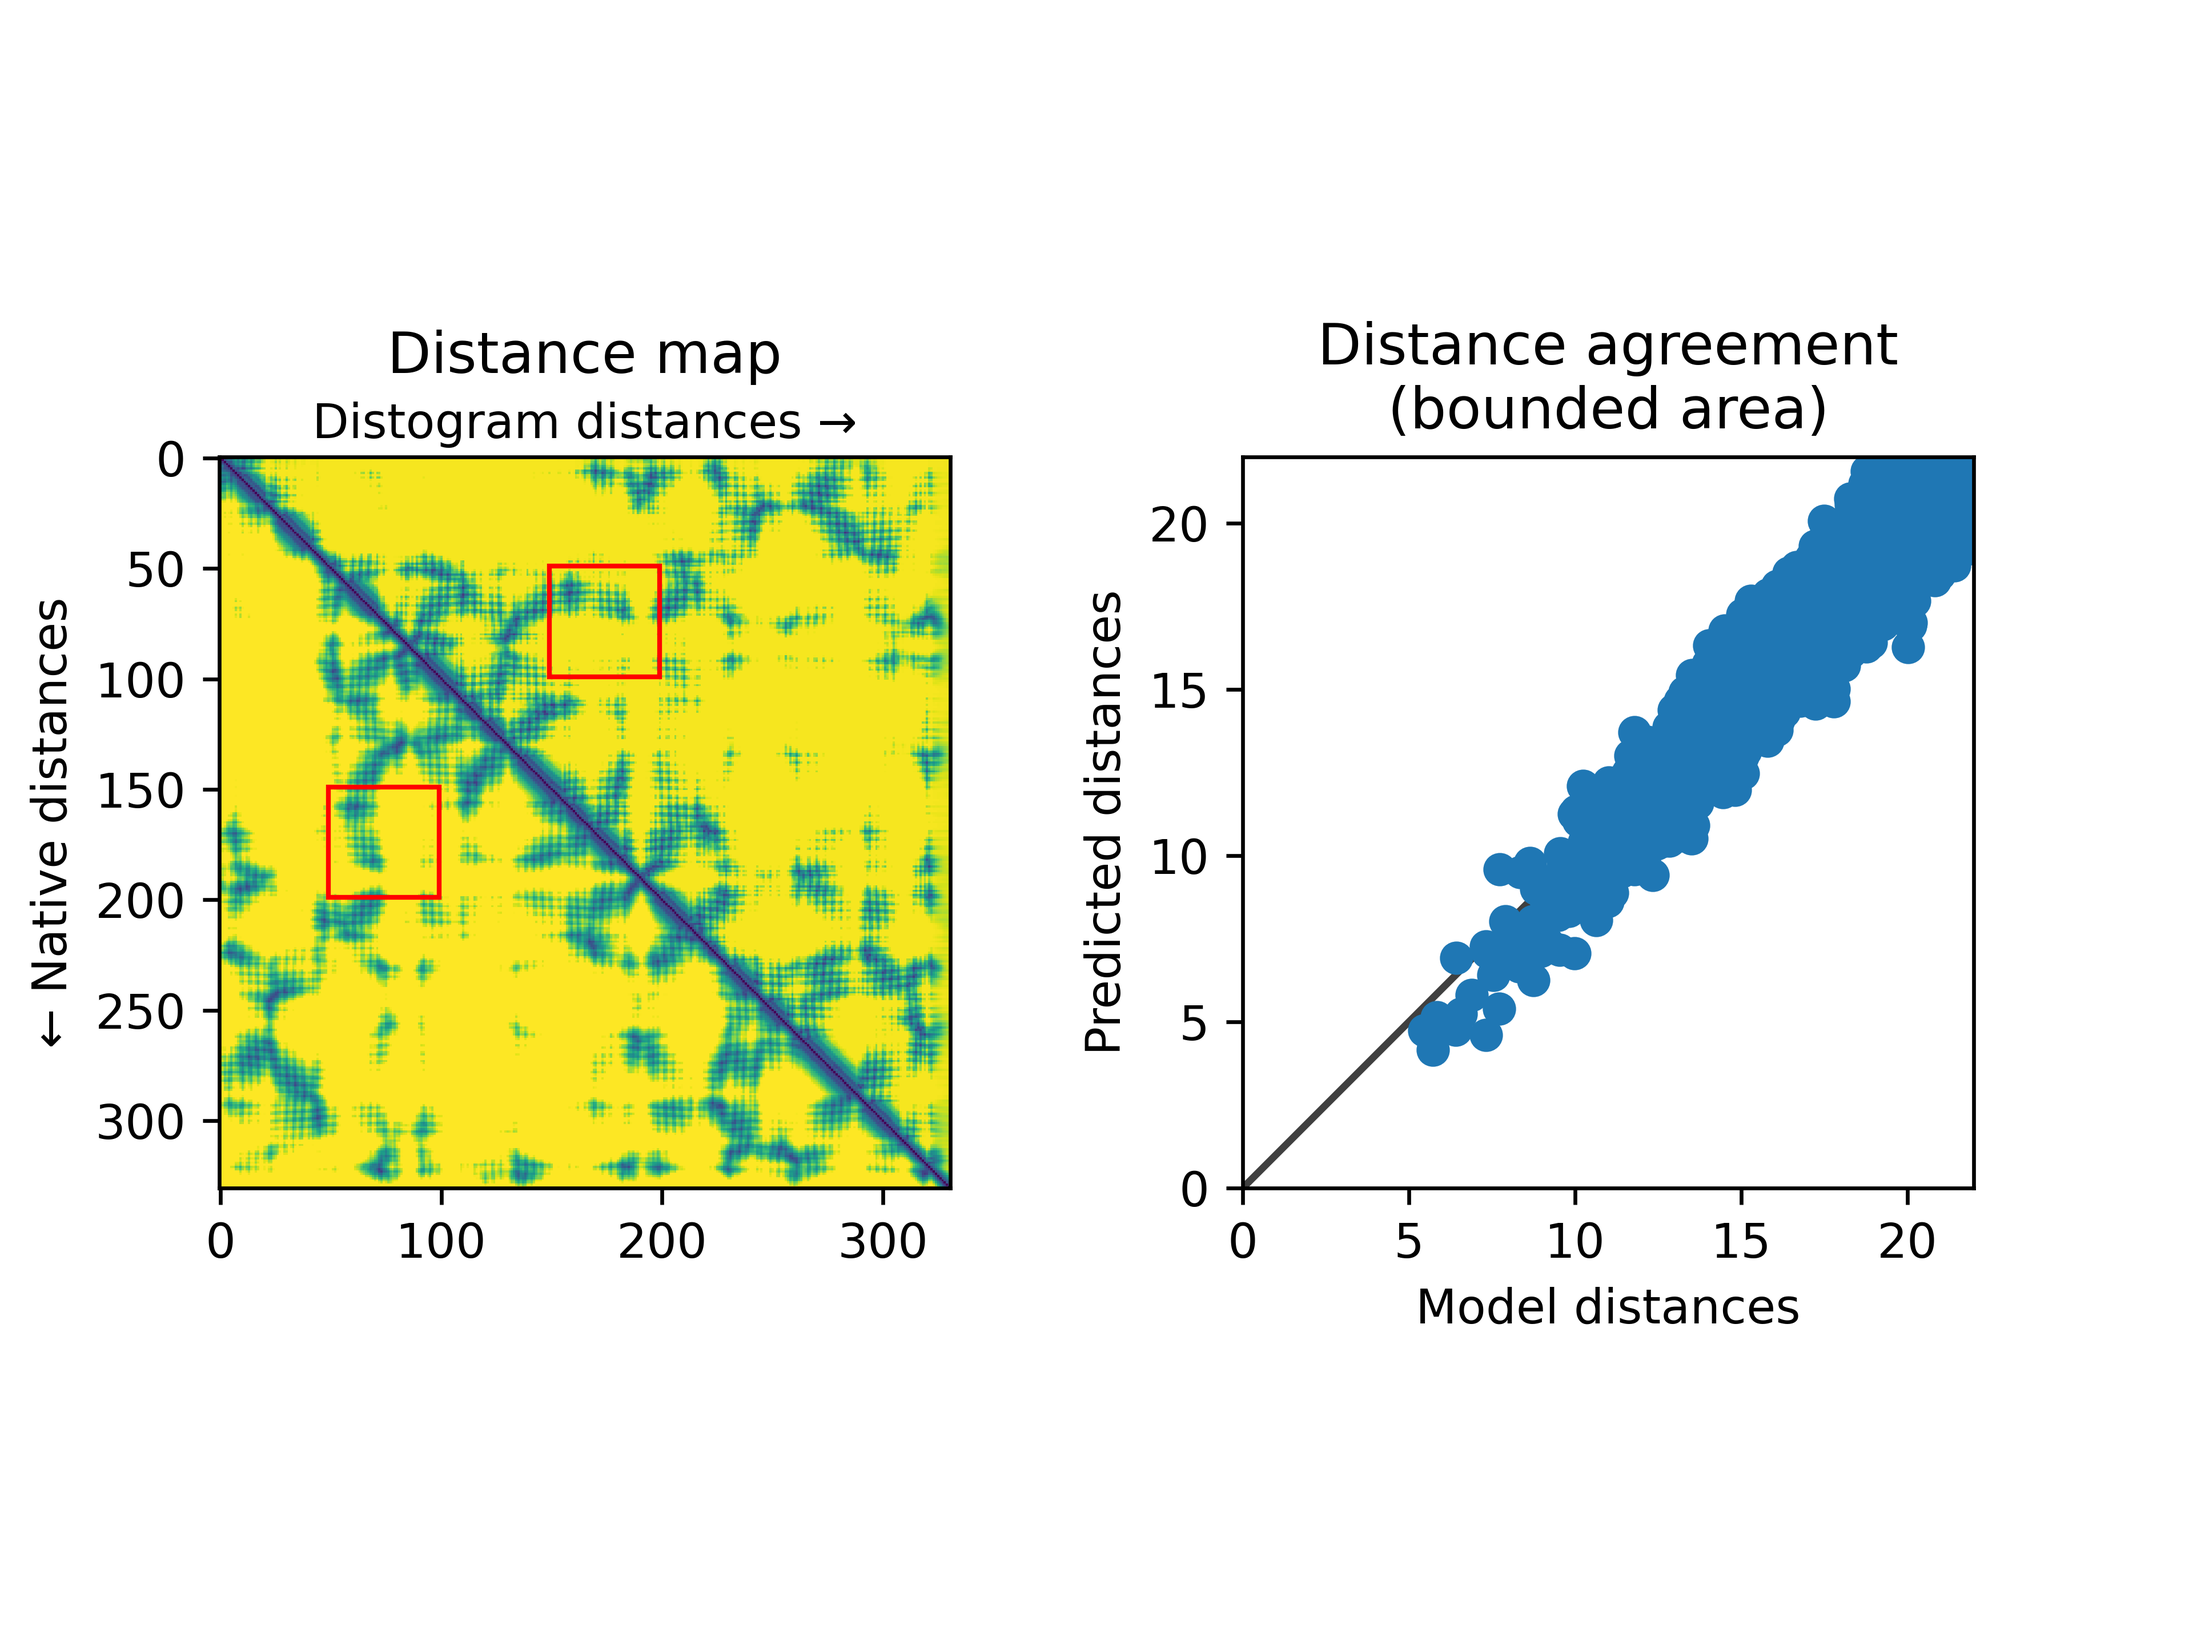
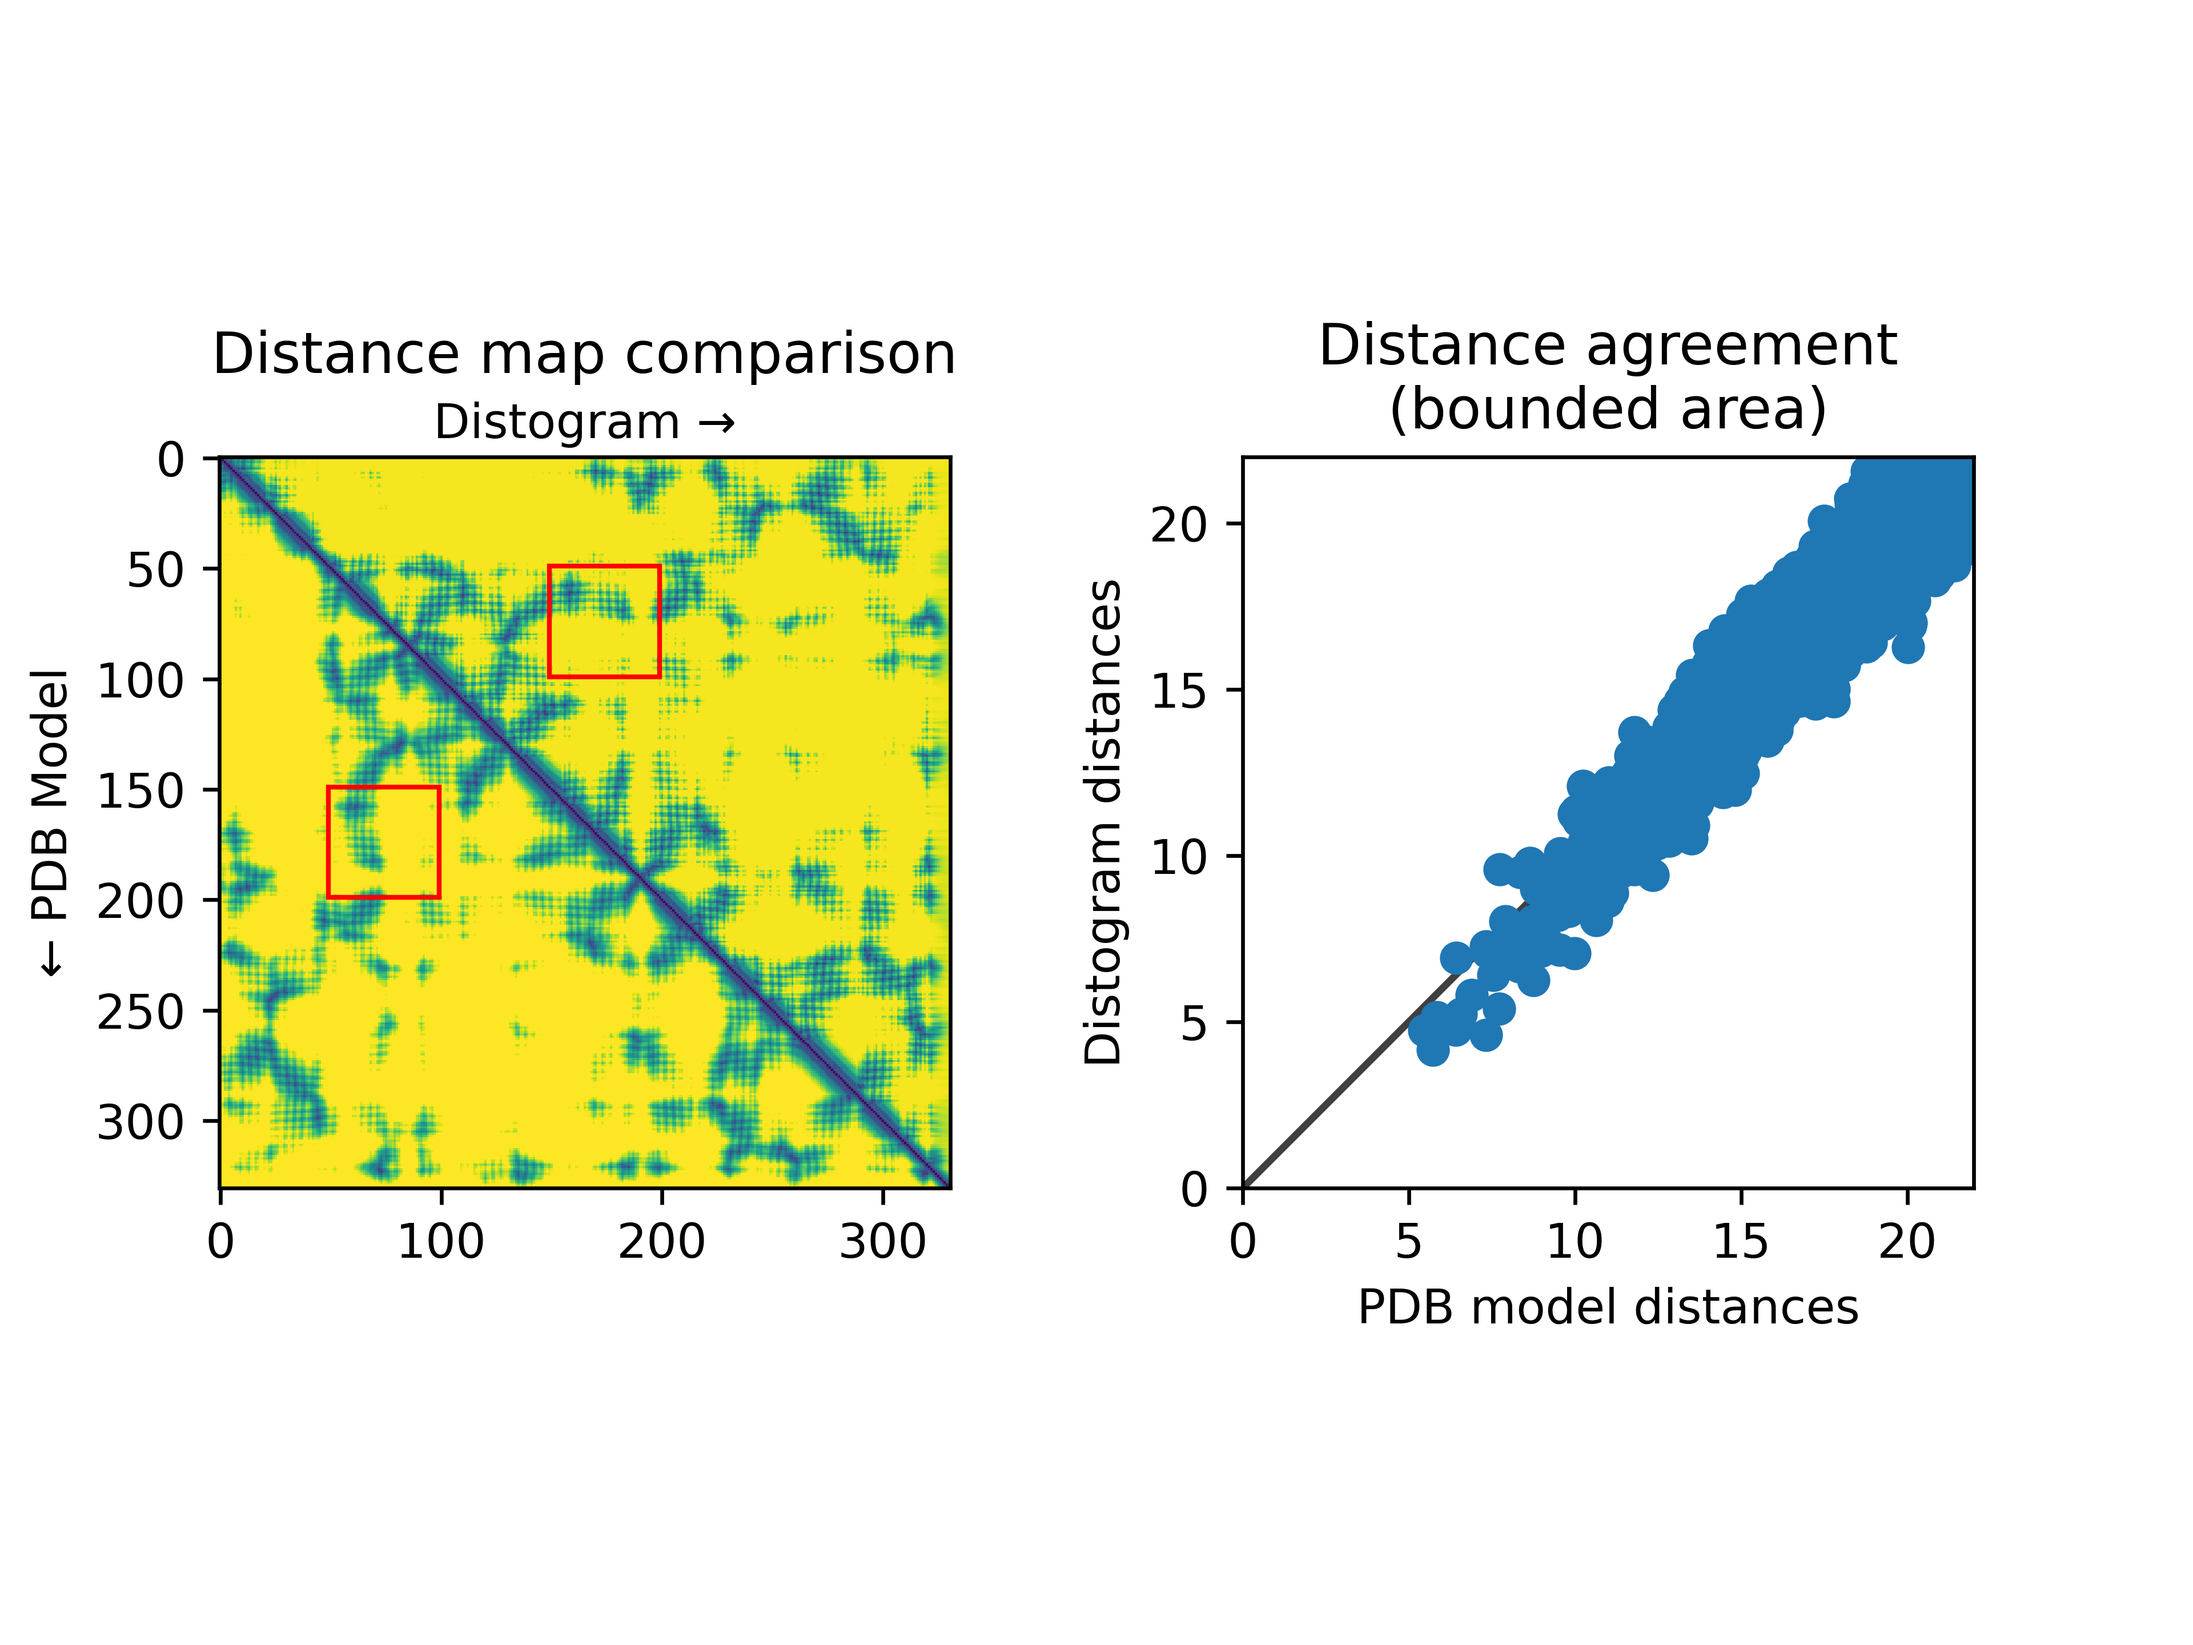
better labels

diff --git a/dgram2dmap.py b/dgram2dmap.py
@@ -208,8 +208,8 @@ def compare_to_native(
     )
 
     ax[0].imshow(compared_dist)
-    ax[0].set_ylabel("← Native distances")
-    ax[0].set_xlabel("Distogram distances →")
+    ax[0].set_ylabel("← PDB Model")
+    ax[0].set_xlabel("Distogram →")
     ax[0].xaxis.set_label_position("top")
 
     ax[1].set_xlim(0, 22)
@@ -221,8 +221,8 @@ def compare_to_native(
         np.max([ax[1].get_xlim(), ax[1].get_ylim()]),  # max of both axes
     ]
     ax[1].plot(lims, lims, "k-", alpha=0.75, zorder=0)
-    ax[1].set_xlabel("Model distances")
-    ax[1].set_ylabel("Predicted distances")
+    ax[1].set_xlabel("PDB model distances")
+    ax[1].set_ylabel("Distogram distances")
 
     # ax[1].set_yticklabels([])
 
@@ -232,7 +232,7 @@ def compare_to_native(
         ax[0].add_patch(rect1)
         ax[0].add_patch(rect2)
 
-    ax[0].set_title("Distance map")
+    ax[0].set_title("Distance map comparison")
     ax[1].set_title("Distance agreement\n(bounded area)")
 
     plt.savefig(filepath, dpi=600)
